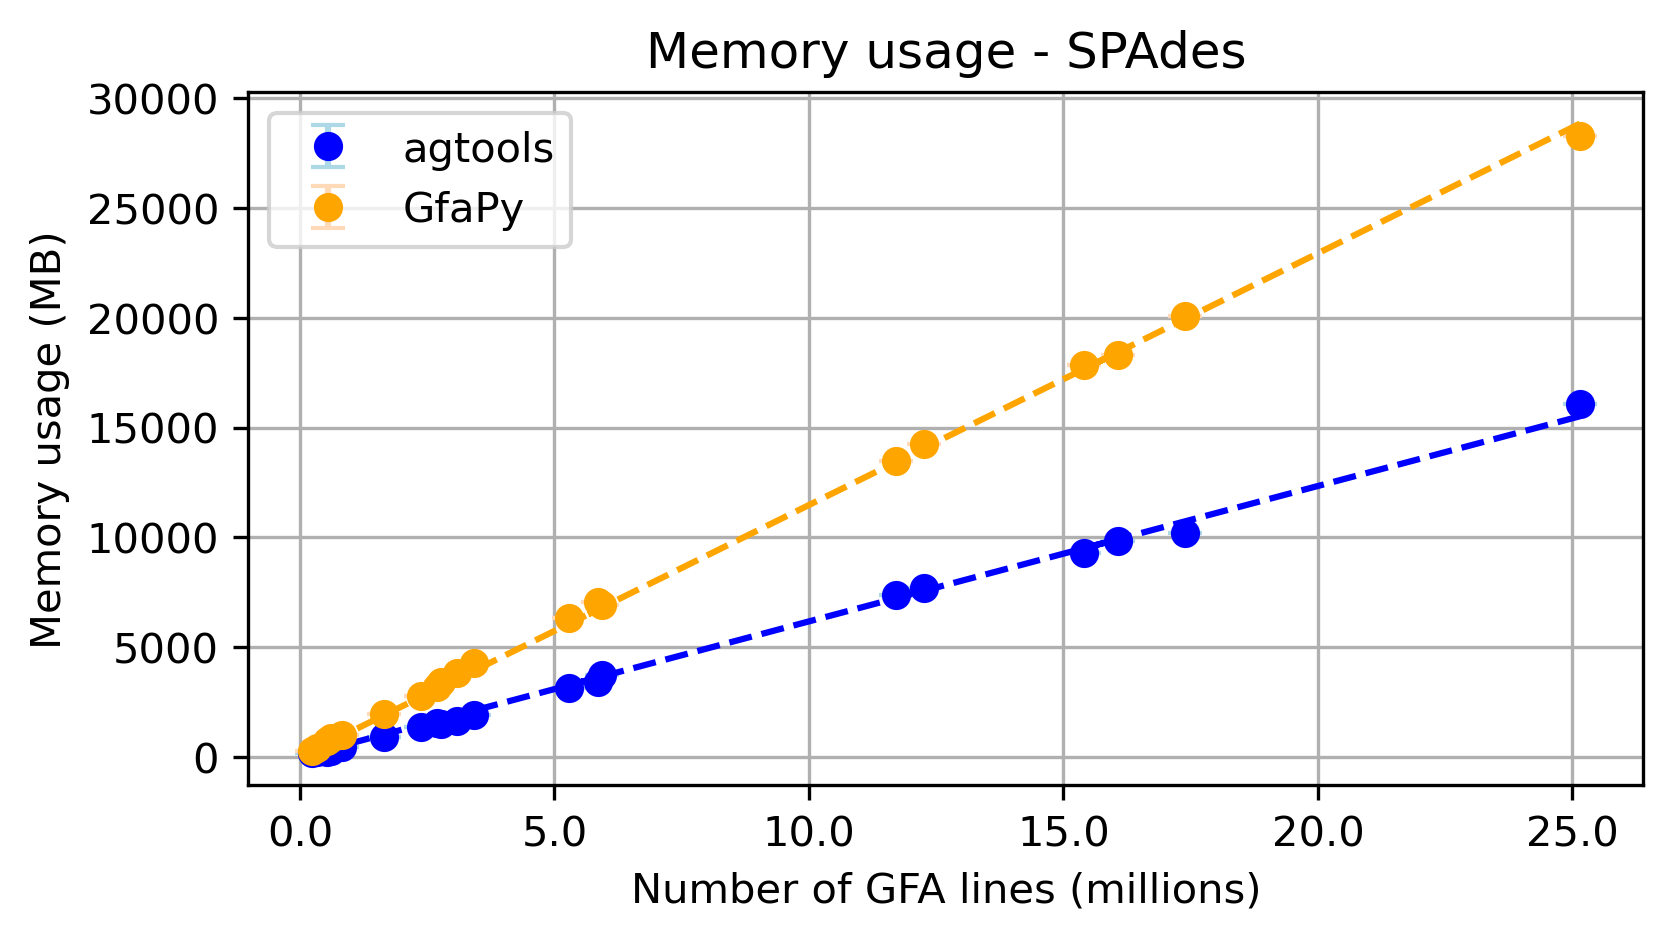
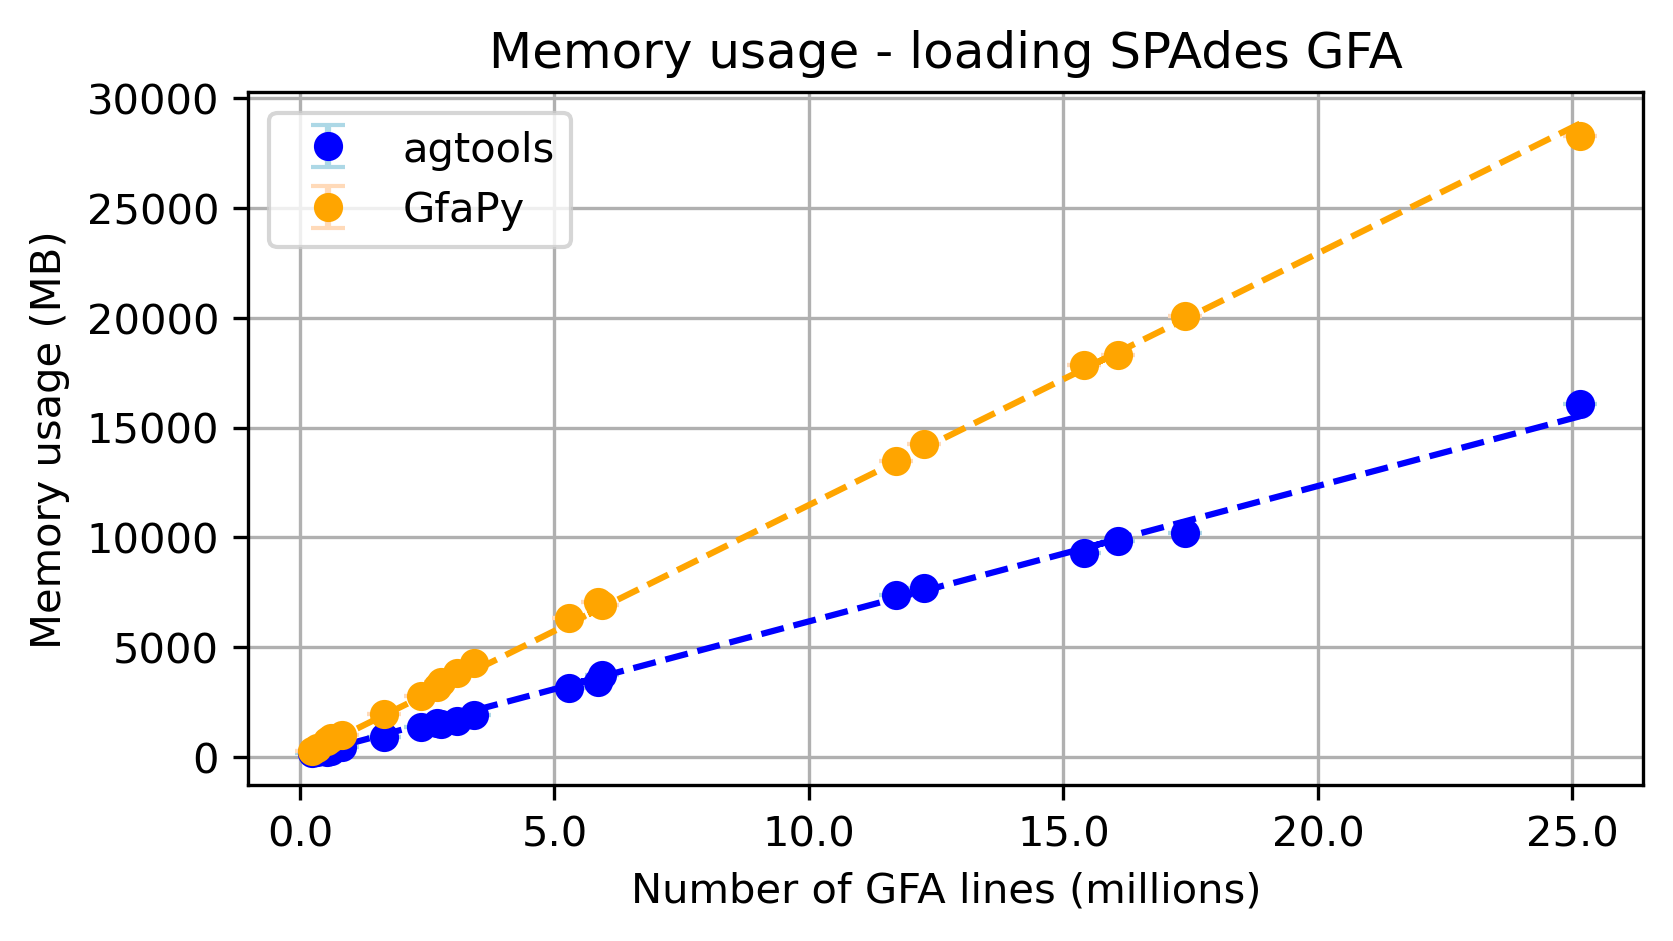
TST: update profiling code and results

Changed region(s): [[0.2797, 0.0308, 0.8392, 0.0925]]

diff --git a/profiling/plot_agtools_gfapy_megahit.py b/profiling/plot_agtools_gfapy_megahit.py
@@ -53,7 +53,7 @@ plt.plot(x_gf_m, m_gf * x_gf_m, "--", color="orange")
 
 plt.xlabel("Number of GFA lines (millions)")
 plt.ylabel("Running time (s)")
-plt.title("Running time - MEGAHIT")
+plt.title("Running time - loading MEGAHIT converted GFA")
 plt.gca().xaxis.set_major_formatter(FuncFormatter(lambda v, _: f"{v:.1f}"))
 plt.grid(True)
 plt.legend()
@@ -102,7 +102,7 @@ plt.plot(x_gf_m, m_gf_mem * x_gf_m, "--", color="orange")
 
 plt.xlabel("Number of GFA lines (millions)")
 plt.ylabel("Memory usage (MB)")
-plt.title("Memory usage - MEGAHIT")
+plt.title("Memory usage - loading MEGAHIT converted GFA")
 plt.gca().xaxis.set_major_formatter(FuncFormatter(lambda v, _: f"{v:.1f}"))
 plt.grid(True)
 plt.legend()

diff --git a/profiling/plot_agtools_gfapy_spades.py b/profiling/plot_agtools_gfapy_spades.py
@@ -53,7 +53,7 @@ plt.plot(x_gf_m, m_gf * x_gf_m, "--", color="orange")
 
 plt.xlabel("Number of GFA lines (millions)")
 plt.ylabel("Running time (s)")
-plt.title("Running time - SPAdes")
+plt.title("Running time - loading SPAdes GFA")
 plt.gca().xaxis.set_major_formatter(FuncFormatter(lambda v, _: f"{v:.1f}"))
 plt.grid(True)
 plt.legend()
@@ -102,7 +102,7 @@ plt.plot(x_gf_m, m_gf_mem * x_gf_m, "--", color="orange")
 
 plt.xlabel("Number of GFA lines (millions)")
 plt.ylabel("Memory usage (MB)")
-plt.title("Memory usage - SPAdes")
+plt.title("Memory usage - loading SPAdes GFA")
 plt.gca().xaxis.set_major_formatter(FuncFormatter(lambda v, _: f"{v:.1f}"))
 plt.grid(True)
 plt.legend()

diff --git a/profiling/plot_agtools_gfapy_flye.py b/profiling/plot_agtools_gfapy_flye.py
@@ -53,7 +53,7 @@ plt.plot(x_gf_m, m_gf * x_gf_m, "--", color="orange")
 
 plt.xlabel("Number of GFA lines (millions)")
 plt.ylabel("Running time (s)")
-plt.title("Running time - Flye")
+plt.title("Running time - loading Flye GFA")
 plt.gca().xaxis.set_major_formatter(FuncFormatter(lambda v, _: f"{v:.1f}"))
 plt.grid(True)
 plt.legend()
@@ -102,7 +102,7 @@ plt.plot(x_gf_m, m_gf_mem * x_gf_m, "--", color="orange")
 
 plt.xlabel("Number of GFA lines (millions)")
 plt.ylabel("Memory usage (MB)")
-plt.title("Memory usage - Flye")
+plt.title("Memory usage - loading Flye GFA")
 plt.gca().xaxis.set_major_formatter(FuncFormatter(lambda v, _: f"{v:.1f}"))
 plt.grid(True)
 plt.legend()
